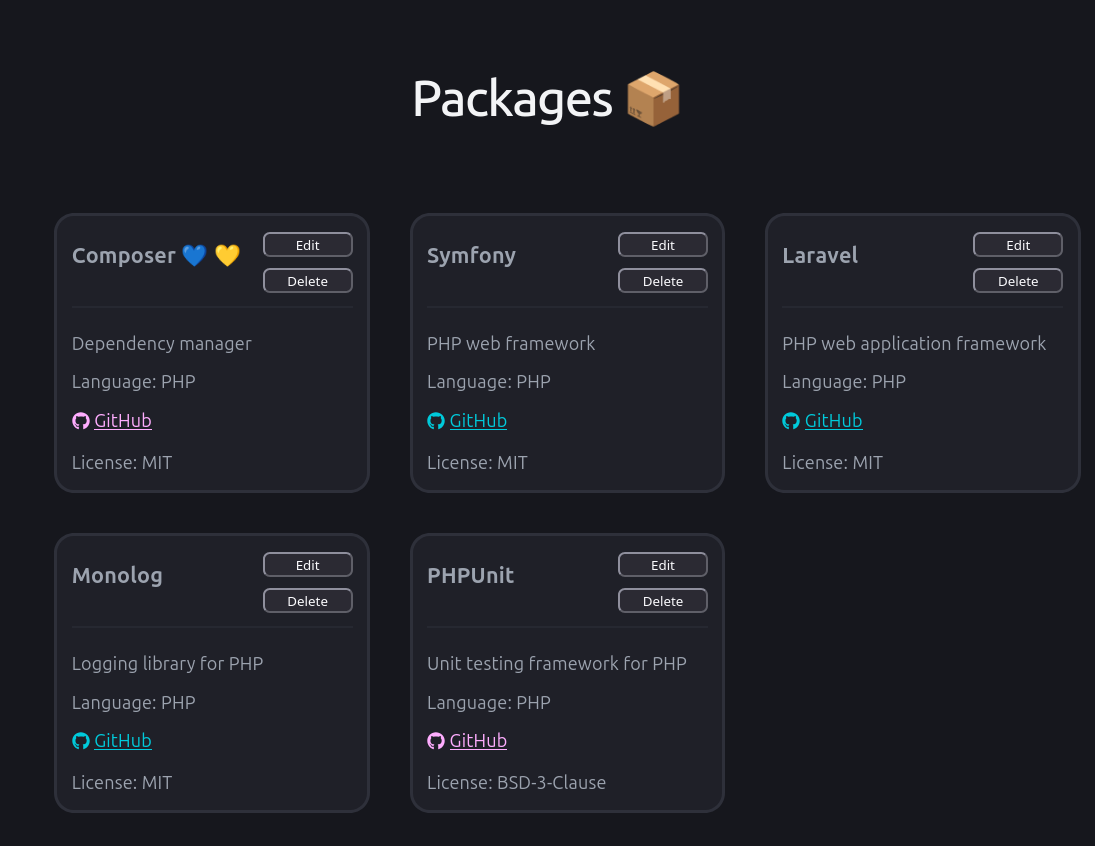
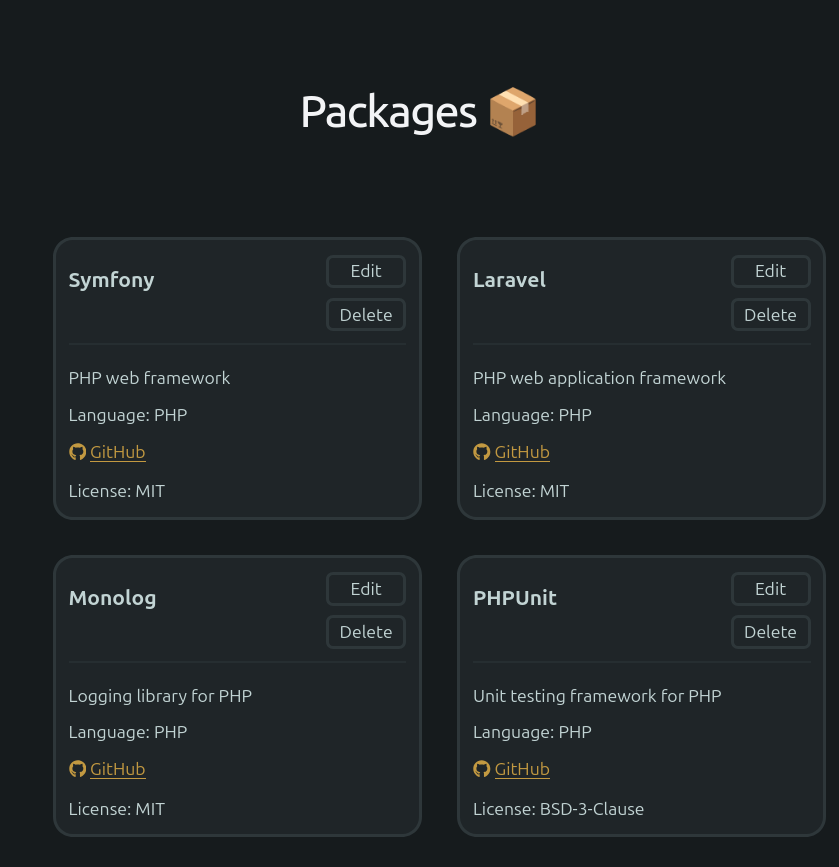
Tweak design

diff --git a/frontend/src/index.css b/frontend/src/index.css
@@ -1,61 +1,89 @@
 :root {
-  --text: #6b6375;
-  --text-h: #08060d;
-  --bg: #fff;
-  --border: #e5e4e7;
-  --code-bg: #f4f3ec;
-  --accent: #aa3bff;
-  --accent-bg: rgba(170, 59, 255, 0.1);
-  --accent-border: rgba(170, 59, 255, 0.5);
-  --social-bg: rgba(244, 243, 236, 0.5);
-  --shadow:
-    rgba(0, 0, 0, 0.1) 0 10px 15px -3px, rgba(0, 0, 0, 0.05) 0 4px 6px -2px;
+  --text: #293033;
+  --text-muted: #667075;
+  --text-h: #060b0d;
 
-  --sans: system-ui, 'Segoe UI', Roboto, sans-serif;
-  --heading: system-ui, 'Segoe UI', Roboto, sans-serif;
+  --bg: #ffffff;
+  --surface: #f8f8f6;
+
+  --border: #e4e6e7;
+
+  --code-bg: #f4f3ec;
+
+  --accent: #865216;
+  --accent-hover: #633b0f;
+
+  --link: var(--accent);
+  --link-hover: var(--accent-hover);
+  --link-active: #3d2509;
+  --link-visited: var(--accent);
+
+  --accent-bg: rgba(134, 82, 22, 0.1);
+  --accent-border: rgba(255, 226, 59, 0.5);
+
+  --social-bg: rgba(244, 243, 236, 0.5);
+
+  --sans: system-ui, "Segoe UI", Roboto, sans-serif;
+  --heading: system-ui, Roboto, sans-serif;
   --mono: ui-monospace, Consolas, monospace;
 
-  font: 18px/145% var(--sans);
-  letter-spacing: 0.18px;
-  color-scheme: light dark;
-  color: var(--text);
-  background: var(--bg);
-  font-synthesis: none;
-  text-rendering: optimizeLegibility;
-  -webkit-font-smoothing: antialiased;
-  -moz-osx-font-smoothing: grayscale;
-
-  @media (max-width: 1024px) {
-    font-size: 16px;
-  }
+  --button-bg: var(--surface);
+  --button-border: var(--border);
+  --button-text: var(--text-muted);
+  --button-hover-border: var(--accent);
+  --button-hover-bg: var(--accent-bg);
 }
 
 @media (prefers-color-scheme: dark) {
   :root {
-    --text: #9ca3af;
+    --text: #c2d4d4;
+    --text-muted: #8ea0a0;
     --text-h: #f3f4f6;
-    --bg: #16171d;
-    --border: #2e303a;
-    --code-bg: #1f2028;
-    --accent: #c084fc;
-    --accent-bg: rgba(192, 132, 252, 0.15);
-    --accent-border: rgba(192, 132, 252, 0.5);
-    --social-bg: rgba(47, 48, 58, 0.5);
-    --shadow:
-      rgba(0, 0, 0, 0.4) 0 10px 15px -3px, rgba(0, 0, 0, 0.25) 0 4px 6px -2px;
-  }
 
-  #social .button-icon {
-    filter: invert(1) brightness(2);
+    --bg: #161b1d;
+    --surface: #1f2528;
+
+    --border: #2e373a;
+
+    --code-bg: #1f2528;
+
+    --accent: #c29941;
+    --accent-hover: #e0b95f;
+
+    --link: var(--accent);
+    --link-hover: var(--accent-hover);
+    --link-active: #ffd77a;
+    --link-visited: var(--accent);
+
+    --accent-bg: rgba(194, 153, 65, 0.15);
+    --accent-border: rgba(252, 214, 132, 0.5);
+
+    --social-bg: rgba(47, 52, 58, 0.5);
   }
 }
+*,
+*::before,
+*::after {
+  box-sizing: border-box;
+}
 
+body {
+  line-height: 1.45;
+}
+
+a {
+  text-underline-offset: 0.15em;
+}
+
+a:focus-visible {
+  outline: 2px solid var(--link);
+  outline-offset: 3px;
+  border-radius: 0.2rem;
+}
 #root {
-  width: 1126px;
-  max-width: 100%;
+  width: min(1126px, 100%);
   margin: 0 auto;
   text-align: center;
-  border-inline: 1px solid var(--border);
   min-height: 100svh;
   display: flex;
   flex-direction: column;
@@ -64,6 +92,16 @@
 
 body {
   margin: 0;
+  font-size: 1.1rem;
+  line-height: 1.45;
+  background-color: var(--bg);
+  color: var(--text);
+  color-scheme: light dark;
+  font-family: var(--sans);
+  text-rendering: optimizeLegibility;
+  @media (max-width: 1024px) {
+    font-size: 1rem;
+  }
 }
 
 h1,
@@ -94,18 +132,41 @@ h2 {
 p {
   margin: 0;
 }
-
-code,
-.counter {
-  font-family: var(--mono);
-  display: inline-flex;
-  border-radius: 4px;
-  color: var(--text-h);
+a {
+  text-underline-offset: 0.15em;
+}
+a:link {
+  color: var(--link);
 }
 
-code {
-  font-size: 15px;
-  line-height: 135%;
-  padding: 4px 8px;
-  background: var(--code-bg);
+a:visited {
+  color: var(--link-visited);
+}
+
+a:hover {
+  color: var(--link-hover);
+}
+
+a:active {
+  color: var(--link-active);
+}
+a:focus-visible {
+  outline: 2px solid var(--link);
+  outline-offset: 3px;
+  border-radius: 0.2rem;
+}
+button {
+  border: 3px solid var(--accent-bg);
+}
+
+button {
+  border: 3px solid var(--button-border);
+  background: var(--button-bg);
+  color: var(--button-text);
+  font: inherit;
+}
+
+button:hover {
+  border: 3px solid var(--button-hover-border);
+  background: var(--button-hover-bg);
 }

diff --git a/frontend/src/components/PackageForm.module.css b/frontend/src/components/PackageForm.module.css
@@ -9,7 +9,6 @@ input {
   border-radius: 7px;
   padding: 0.35rem 0.5rem;
   width: 100%;
-  box-sizing: border-box;
 }
 
 hr {

diff --git a/README.md b/README.md
@@ -20,6 +20,8 @@ A small REST API written in PHP for managing software package metadata.
 
 This project was built as a learning exercise to practice object-oriented PHP, HTTP request handling, repository-based architecture, SQLite, and automated testing.
 
+The frontend is intentionally minimal and exists as a client for the API.
+
 ## Project Structure
 
 ```text